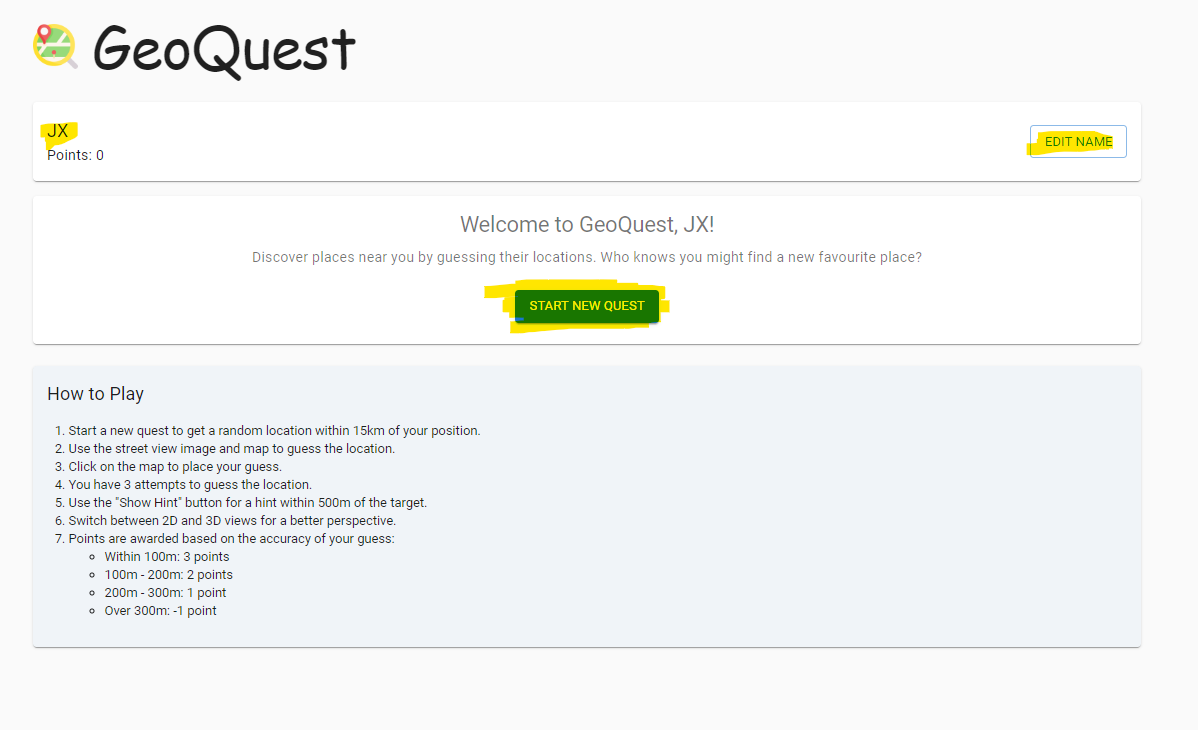
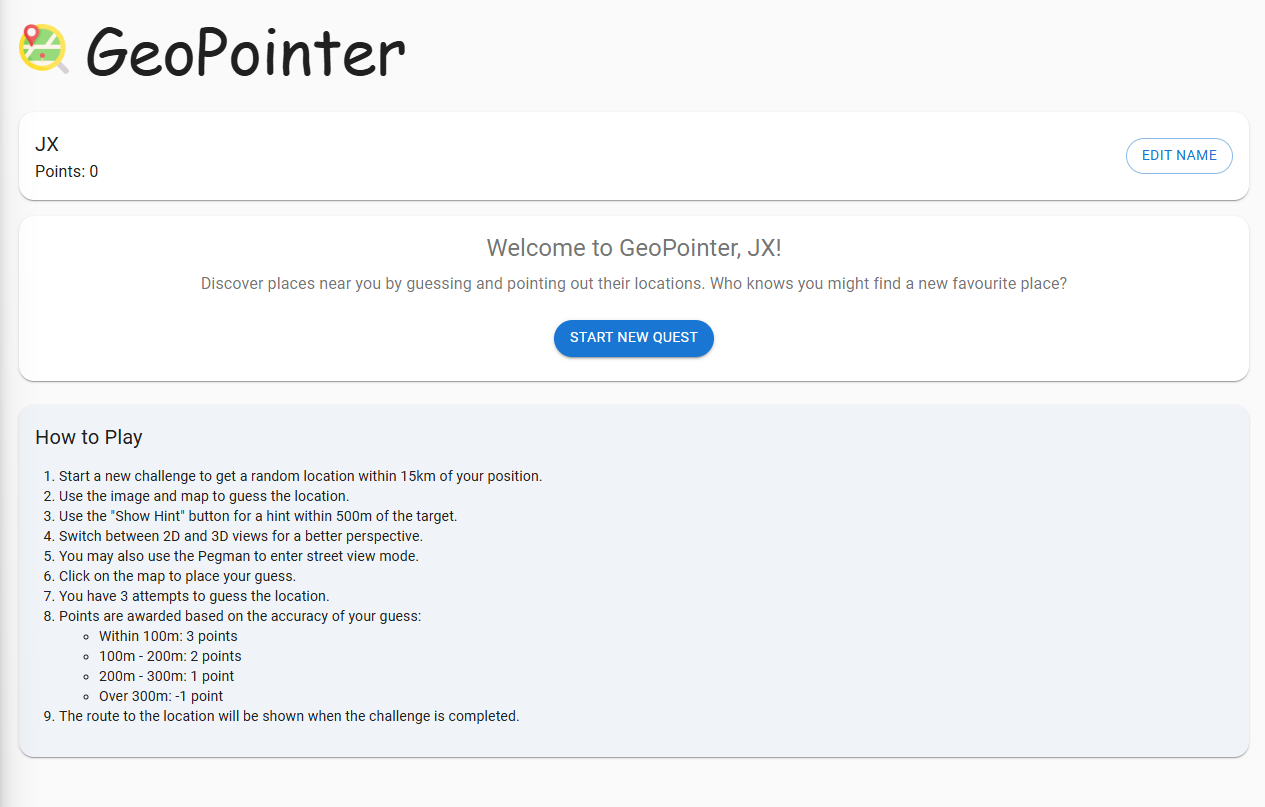
updated README

diff --git a/README.md b/README.md
@@ -1,12 +1,12 @@
-# Welcome to GeoQuest!🎉
+# Welcome to GeoPointer!🎉
 
-GeoQuest is a game that allows you to explore the places around you which you may or may not know already, who knows you might find a hidden gem around you?
+GeoPointer is a game that allows you to explore the places around you which you may or may not know already, who knows you might find a hidden gem around you?
 
 ## How to run the files
 
 1. Clone the repository to your local machine using:
 ```
-git clone https://github.com/your-repo-url.git
+git clone https://github.com/Daddycation23/GeoPointer
 ```
 2. Navigate to the project directory:
 ```
@@ -29,14 +29,14 @@ npm start
 ![Alt text](./public/StreetViewAndMap.png "Street View and Map")
 3. Below are the color indications of the markers.
 ![Alt text](./public/ColorIndications.png "Color Indications")
-4. Once you add the place, it will be reflected in the leaderboard page.
-![Alt text](./public/Leaderboard.png "Leaderboard")
+4. When 'show hint' is clicked, a circle of 1km radius will be shown, and the target location will be somewhere within the circle.
+![Alt text](./public/Hint.png "Hint")
 5. You can switch between 2D and 3D view, as well as Street View using the Pegman icon.
 ![Alt text](./public/2DView.png "2D View")
 ![Alt text](./public/3DView.png "3D View")
 ![Alt text](./public/StreetView.png "Street View")
 6. You have 3 guesses to guess the location, and the points will be calculated based on how close you are to the actual location. The scores are shown in the main page.
-7. After you have made a correct guess(<=100m) or used all your guesses, you can start next quest or go back to main menu.
+7. After you have made a correct guess(<=100m) or used all your guesses, the route from your location to the target location will be shown, you may also choose to start new challenge.
 ![Alt text](./public/QuestDone.png "Quest Done")
 
 Feel free to explore the code and make improvements!
